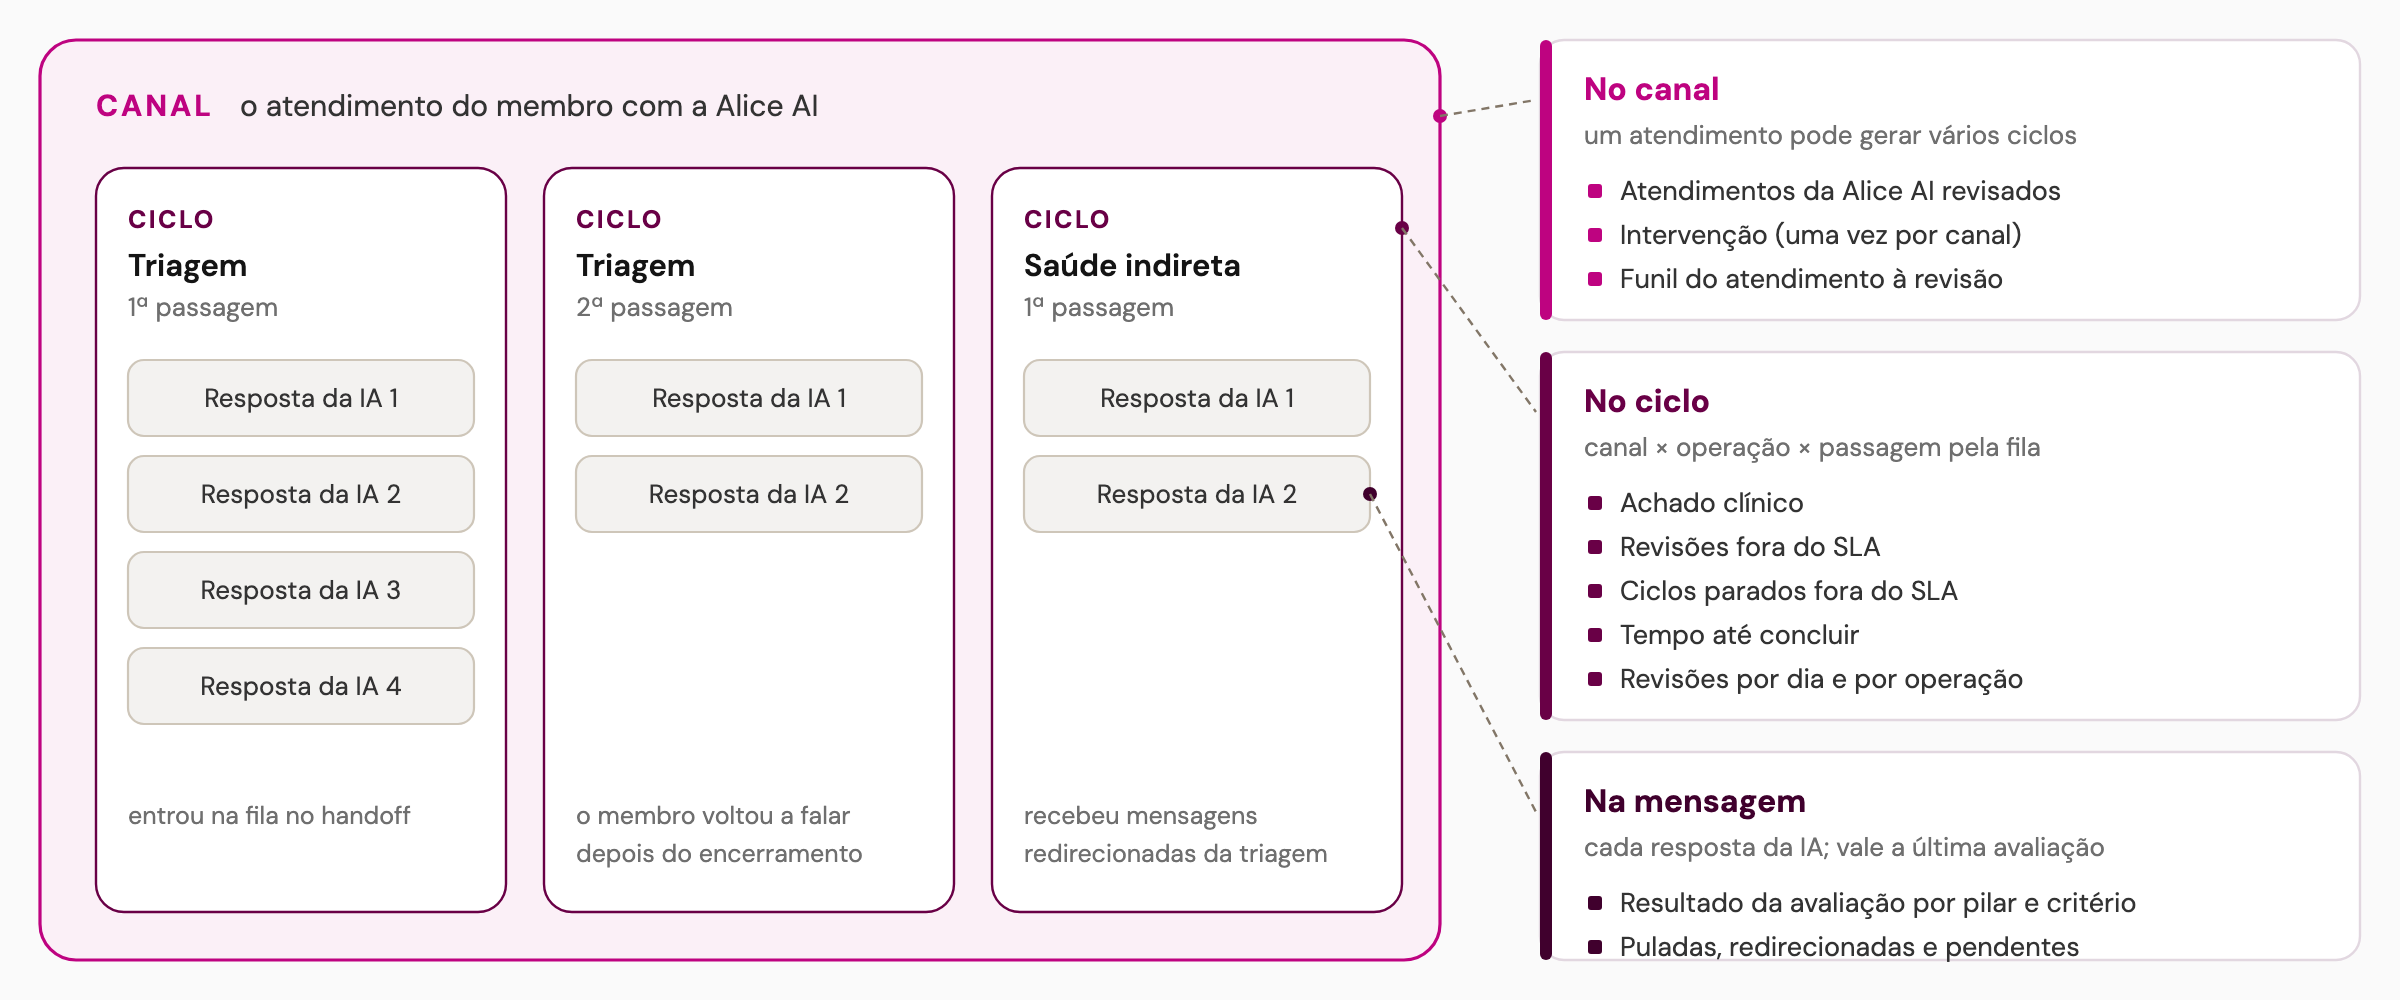
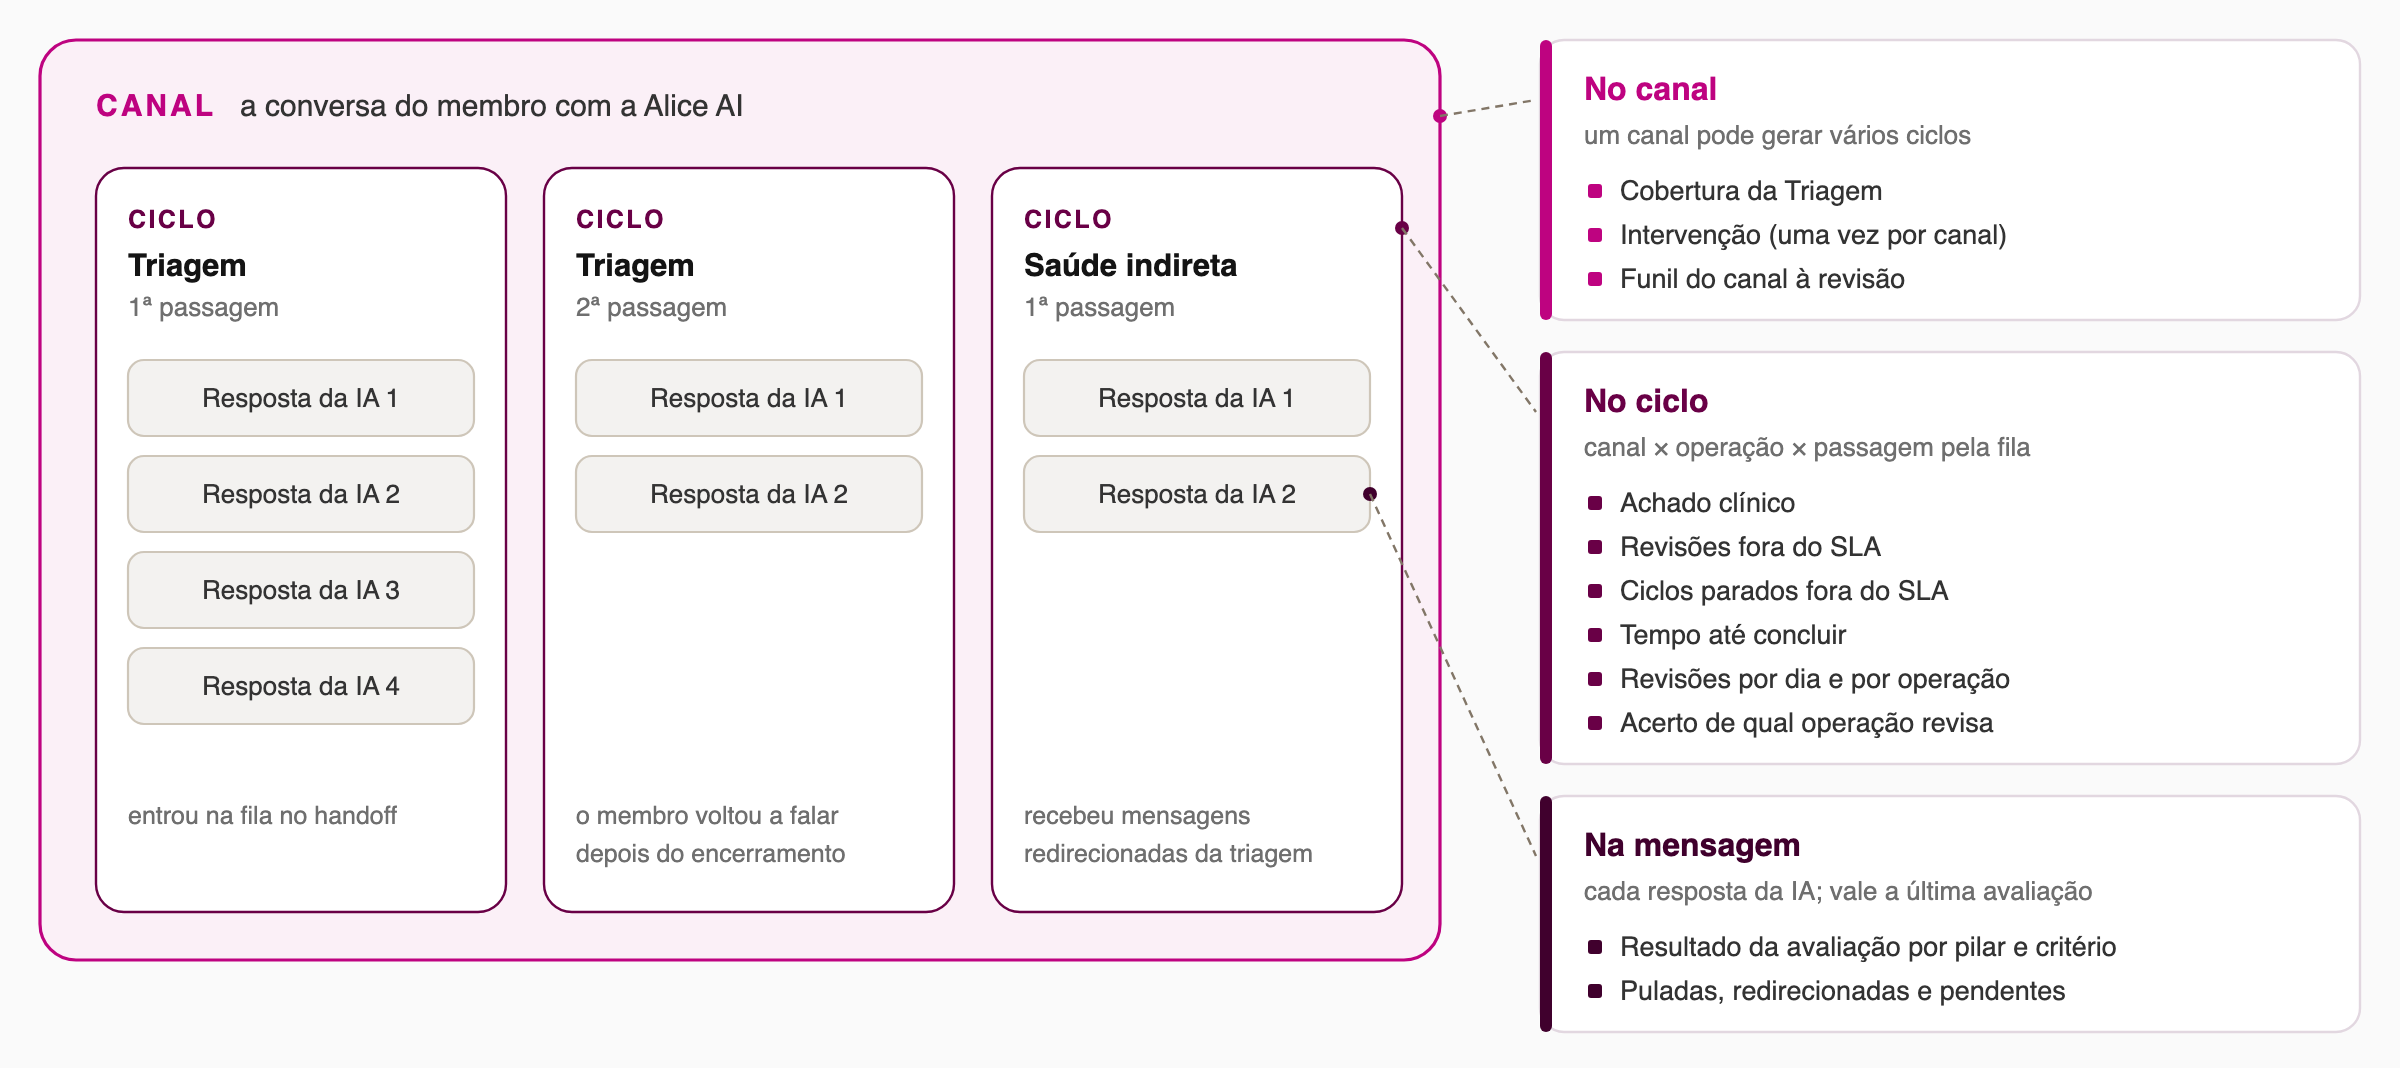
Troca atendimento por canal e inclui o acerto de qual operação revisa no diagrama de grãos

diff --git a/index.html b/index.html
@@ -28,7 +28,7 @@
   </figure>
   <figure>
     <h2>2. O ciclo de vida de uma revisão</h2>
-    <figcaption>Quem abre o atendimento fica com ele até encerrar; o SLA corre da entrada ao encerramento.</figcaption>
+    <figcaption>Quem abre o canal fica com ele até encerrar; o SLA corre da entrada ao encerramento.</figcaption>
     <img src="img/2-ciclo-de-vida.png" alt="Estados do ciclo: entra na fila, aberto, encerrado; ramos de quem não conclui, entrada no chat e redirecionamento; relógio do SLA.">
   </figure>
   <figure>
